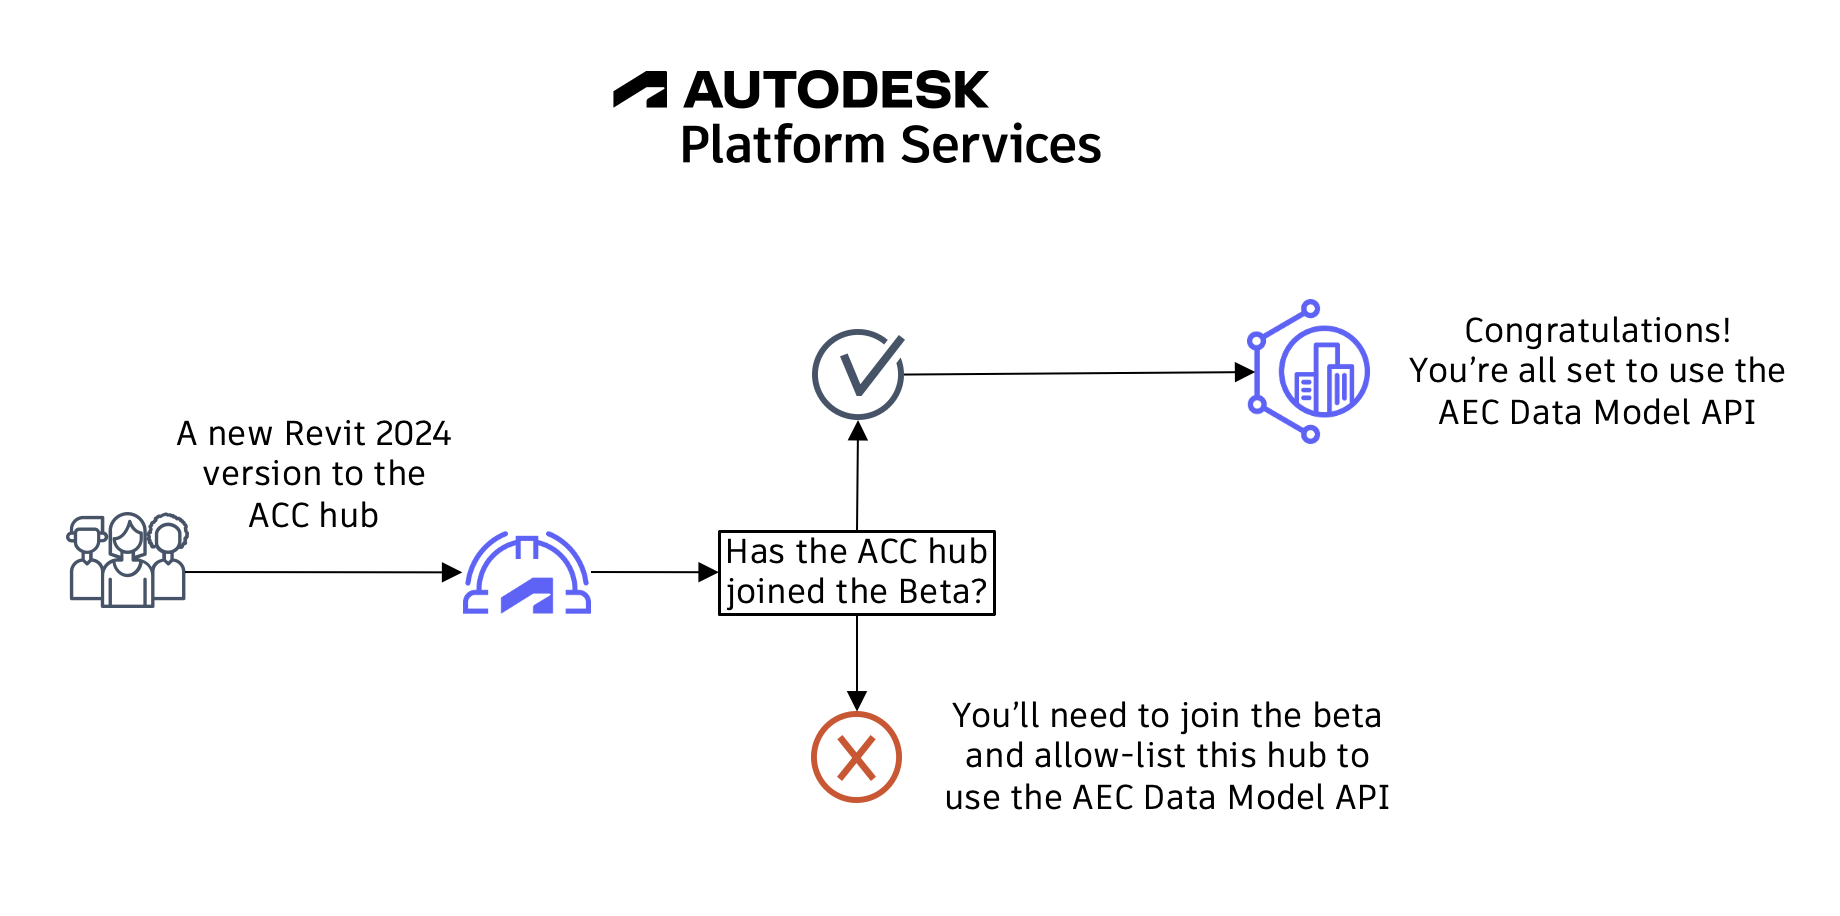
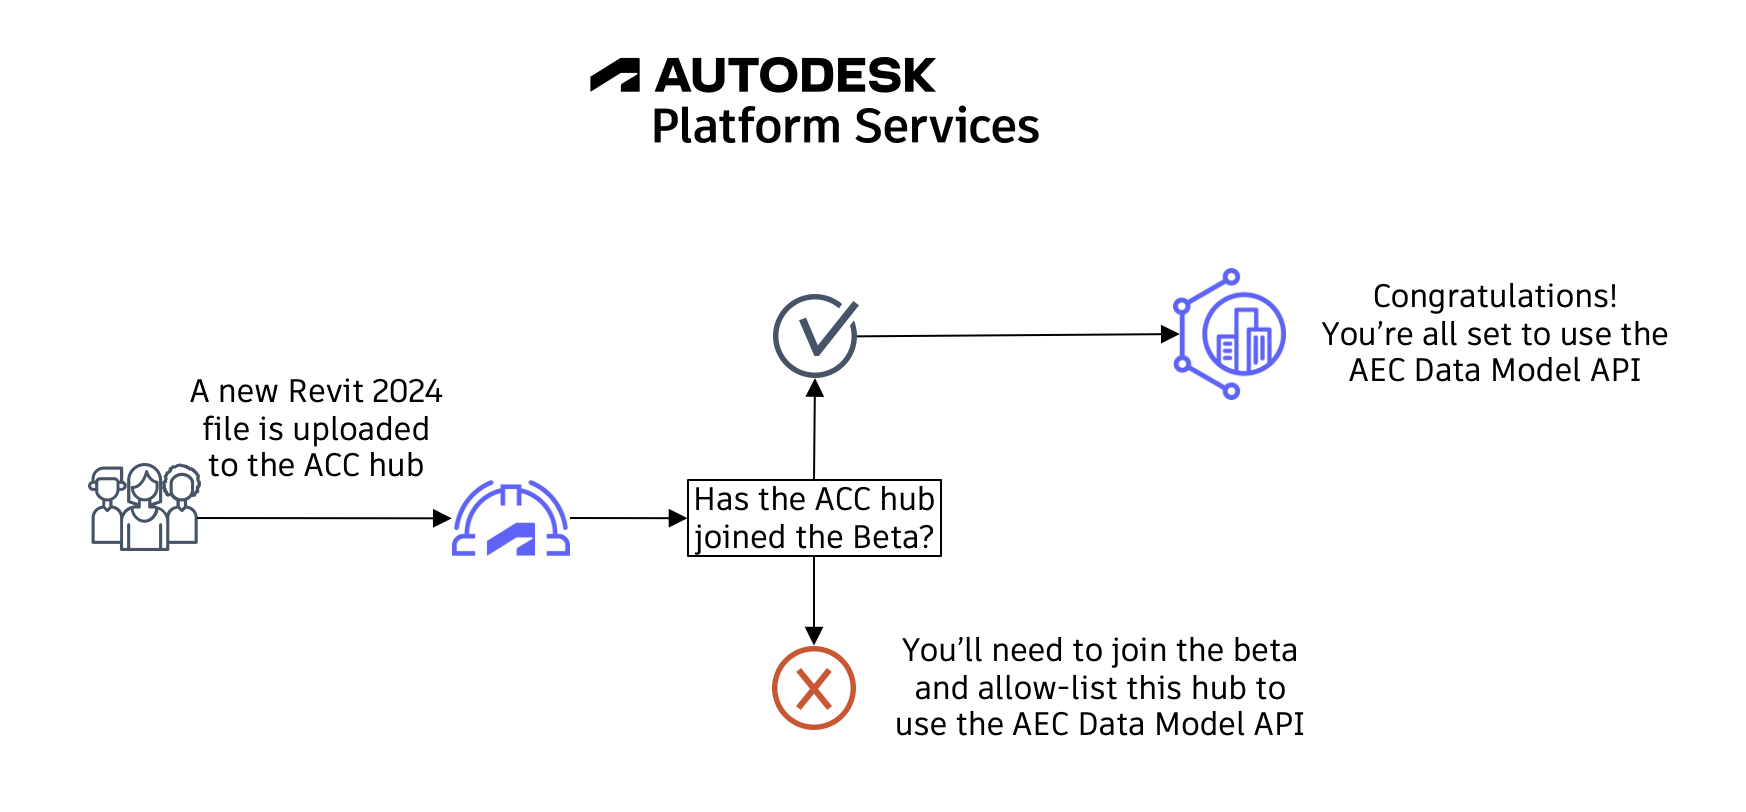
update prerequisites

diff --git a/Prerequisites and GraphQL/index.md b/Prerequisites and GraphQL/index.md
@@ -8,15 +8,15 @@ permalink: /prerequisites/home/
 
 # Prerequisites
 
-Before jumping to action, there are a few (but really important) pre-requisites you need to fulfill in order to be able to follow along with this tutorial. **The steps need to be fulfilled in sequence for you to be able to follow this tutorial (only move to the next step after completing the previous one)**:
+Before jumping to action, there are a few (but really important) prerequisites you need to fulfill in order to be able to follow along with this tutorial. **The steps need to be fulfilled in sequence for you to be able to follow this tutorial (only move to the next step after completing the previous one)**:
 
-1. You'll need an ACC account. The AEC Data Model API works on top of Revit 2024 designs hosted on ACC, so if you don't have an ACC account, please
+1. First of all, you'll need an **AMER region** ACC account. The AEC Data Model API works on top of Revit 2024 designs hosted on **AMER region** ACC hubs, so it is **required**. Even though the scope of this tutorial is just reading data, we recommend that you create a separate project for testing the AEC Data Model API. If you don't have access to an **AMER ACC hub**, you can find the options to obtain one account for testing at [this blog](https://fieldofviewblog.wordpress.com/2017/08/31/bim-360-acc-account-for-development/). **Please ensure that you now have access to an ACC hub in AMER region and only after that proceed to the next prerequisite.**
 
-2. You'll need to allow-listed to generate AEC Designs from uploaded Revit 2024 files. To make this possible, the account owner of the ACC hub you're interested in using needs to join the AEC Data Model API beta. **We recommend doing this as soon as possible as this process might take up to three business days and after that, there are still prerequisites to be fulfilled before the bootcamp. So, please reach your ACC hub owner and ask him/her to [join the AEC Data Model API beta](https://feedback.autodesk.com/key/AECDataModelPublicBeta) as soon as possible!** When your ACC account is enabled, every time you upload a new Revit 2024 file to your hub, it will generate one equivalent AEC Design. This only works against files uploaded **after your hub is allow-listed**. Please, reach out to us in case it takes longer than expected. It works just like in the diagram below:
+2. Once you get access to your hub, you'll need to enable it to generate AEC Designs from uploaded Revit 2024 files. To make this possible, **the account owner** of the ACC hub you're interested in using needs to [join the AEC Data Model API beta](https://feedback.autodesk.com/key/AECDataModelPublicBeta). **We recommend doing this as soon as possible as this process might take up to three business days and after that, there are still prerequisites to be fulfilled before the bootcamp. So, please reach out to your ACC hub owner and ask him/her to [join the AEC Data Model API beta](https://feedback.autodesk.com/key/AECDataModelPublicBeta) as soon as possible!** When your ACC account is enabled, every time you upload a new Revit 2024 file to your hub, it will generate one equivalent AEC Design. This only works against files uploaded **after your hub is allow listed**. Please, reach out to us in case it takes longer than expected. The process works just like in the diagram below:
    ![translation diagram](../../assets/images/translationdiagram.png)
    ![translation diagram](../assets/images/translationdiagram.png)
 
-3. With the first step covered, it's time to make our files available for interacting with the AEC Data Model API. For our tutorial, we prepared a subset of files that you can download [here](). You just need to upload those files to your account **at least one week prior to the tutorial date**. We're asking that because the translation process can take some time and if everybody submits all their files without enough time, some designs might not get translated in time. If your account is allow-listed, please go ahead and **[download the files]() and upload them to a known project in your account** as soon as possible.
+3. With the first two steps covered, it's time to make our design data ready to use with the AEC Data Model API. For our tutorial, we prepared a subset of files that you can download [here](). You just need to upload those files to your account **at least one week prior to the tutorial date**. We are asking this because the translation process can take some time and if everybody submits all their files without enough time, some designs may not get translated in time. If your account is allow listed, please go ahead, **[download the files](), and upload them to a known project in your ACC AMER account** as soon as possible. After that, you can move to our last prerequisite (we're almost done ;)).
 
 4. You'll also need to [provision access in your ACC hub](https://tutorials.autodesk.io/?check_logged_in=1#provision-access-in-other-products) to the client id `HKVjhUXySDGLGJimolxAgDdpoCuZLlql`. This is the client id of the APS app used by the [explorer](https://aecdatamodel-explorer.autodesk.io/) that we'll be using in this tutorial.
 
